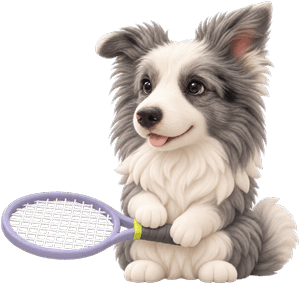
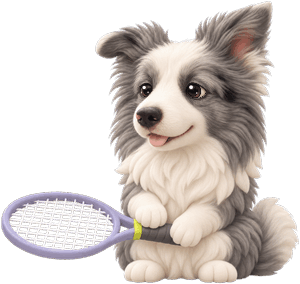
polish: 优化活动首帧秒出无跳动、调整 LULU 盯球眼神与收紧底部留白

Changed region(s): [[0.6, 0.2535, 0.72, 0.3662], [0.45, 0.2535, 0.51, 0.3662]]

diff --git a/pages/draw-view/draw-view.js b/pages/draw-view/draw-view.js
@@ -42,7 +42,7 @@ Page({
   data: {
     draw: null, meta: '', levelText: '', formatText: '', seedLabel: '', seedRows: [], error: '', myName: '', myId: '',
     cupTag: '', cupBox: null, canEditCup: false, cupKindBusy: false, isRot: false, rotRounds: [],
-    ready: false, signing: false, ended: false, endReason: '', canClose: false, canReopen: false, closeBusy: false, posterBtnText: '生成对阵图',
+    ready: false, btnReady: false, signupsKnown: false, signing: false, ended: false, endReason: '', canClose: false, canReopen: false, closeBusy: false, posterBtnText: '生成对阵图',
     isDouble: false, signups: [], signCount: '', signText: '', signNote: '', joined: false, isOwner: false, full: false, busy: false,
     partnerOpts: [], info: null, adminSheet: null, adminBusy: false, // adminSheet：管理员代报名的选人弹层（components/member-sheet）
     matches: [], tab: 'board', schedule: [], onlyMine: false, focus: '', progress: '', todo: 0, slotEdit: null,
@@ -67,9 +67,10 @@ Page({
   onPullDownRefresh() { require('../../utils/memo').invalidate(); // 下拉刷新：不用内存缓存
     this.load().then(() => wx.stopPullDownRefresh()); },
 
-  // 先用本机已有的数据画出来（活动列表的本机缓存 + 本机战绩），云端 drawDetail 读完再更正（2026-11-24 用户嫌打开慢）。
-  // 本机没有的（报名名单、退赛申请、积分结算）读完前不显示；报名 / 取消 / 生成对阵 / 删除这些按钮也等读完（ready）
-  //   报名中的活动：内存里 60 秒内读过的详情（db.peekDrawDetail）或本机记着的上次名单（db.cachedDrawSignups）先画出人数和名单（只是显示）
+  // 先用本机已有的数据画出来（活动列表的本机缓存 + 本机战绩），云端 drawDetail 读完再更正。
+  //   报名中的活动：内存里 60 秒内读过的详情（peekDrawDetail）、上次的名单（cachedDrawSignups）或我的报名缓存（cachedMySignups）
+  //   能确定报名状态时，第一帧同步画出报名 / 取消 / 截止报名 / 删除等按钮（btnReady: true），避免页面打开后按钮延迟蹦出与宽度跳动；
+  //   云端读完（ready: true）后再按最新结果更正，名单为空时仍在 ready 前不提示「还没有人报名」。
   preview() {
     let d = null, signups = null, me = null, peekCup = null;
     try {
@@ -82,14 +83,41 @@ Page({
     me = me || db.cachedProfile();
     try {
       const all = db.cachedMatches();
-      this.show(d, all, me, db.cachedOpenid() || (me && me._openid) || '', null);
-      if (d.status === 'signup' && Array.isArray(signups)) this.loadSignups(d, all, signups, { players: db.cachedPlayersFull() });
-      else if (d.status !== 'signup' && peekCup && require('../../utils/member').isAdminLocal() && C.drawCupOf(d)) this.applyCup(peekCup);
+      const myId = db.cachedOpenid() || (me && me._openid) || '';
+      let extra = null;
+      if (d.status === 'signup') {
+        const players = db.cachedPlayersFull();
+        if (Array.isArray(signups)) {
+          const mine = signups.find((s) => !!myId && s._openid === myId) || null;
+          extra = Object.assign(this.buildSignupPatch(d, signups, mine, players, false, all, myId), { btnReady: true, signupsKnown: true });
+        } else {
+          const mySu = db.cachedMySignups ? db.cachedMySignups() : null;
+          if (Array.isArray(mySu)) {
+            const joined = mySu.some((s) => s && s.drawId === this.id);
+            this.partnerPool = players.filter((p) => p.uid && p.uid !== myId);
+            extra = {
+              joined,
+              full: false,
+              partnerOpts: [NO_PARTNER].concat(this.partnerPool.map((p) => p.name)),
+              btnReady: true,
+            };
+          }
+        }
+      } else {
+        extra = { btnReady: true };
+      }
+      this.show(d, all, me, myId, null, null, extra);
+      if (d.status !== 'signup' && peekCup && require('../../utils/member').isAdminLocal() && C.drawCupOf(d)) this.applyCup(peekCup);
     } catch (e) { console.warn('[活动详情] 本机缓存画不出来，等云端', e); }
   },
 
   // 防乱序：onShow、下拉刷新、处理退赛后都会调 load，几次请求先后回来时只用最后一次的结果（旧的晚到也不画）
-  async load() {
+  load() {
+    const p = this.loadNow();
+    this.loadP = p;
+    return p;
+  },
+  async loadNow() {
     const seq = this.loadSeq = (this.loadSeq || 0) + 1;
     const stale = () => seq !== this.loadSeq || this.gone;
     try {
@@ -125,12 +153,12 @@ Page({
       if (stale()) return;
       console.error(e);
       // 只画过本机缓存、云端没读到：不留着缓存的内容（可能已被删除）
-      this.setData(this.loaded ? { error: '活动加载失败，可能已被删除' } : { error: '活动加载失败，可能已被删除', draw: null, ready: false });
+      this.setData(this.loaded ? { error: '活动加载失败，可能已被删除' } : { error: '活动加载失败，可能已被删除', draw: null, ready: false, btnReady: false, signupsKnown: false });
     }
   },
 
   // fresh：云端结果 { bundle, signups }；null 表示只是本机缓存的预览
-  async show(d, all, me, myId, fresh, stale) {
+  async show(d, all, me, myId, fresh, stale, previewExtra) {
     const signups = fresh ? fresh.signups : [];
     this.uidOf = ID.drawUids(d, signups); // 「我的比赛」按用户 ID 判断
     d._id = d._id || this.id;
@@ -169,13 +197,15 @@ Page({
     };
     if (signing) { top.canEditCup = cupOn; top.cupBox = null; this.cupSeq = (this.cupSeq || 0) + 1; } // 报名中：取消还在路上的结算查询
     else if (!cupOn) top.canEditCup = false;
-    this.setData(top);
-    if (!fresh) { // 预览：报名名单等云端；对阵和场次用本机战绩先画
+    if (!fresh) { // 预览：同一次 setData 合并已缓存的报名名单和按钮状态，首帧直接到位
+      if (previewExtra) Object.assign(top, previewExtra);
+      this.setData(top);
       if (!signing) this.renderSchedule(true);
       return;
     }
+    this.setData(top);
     if (signing) {
-      await this.loadSignups(d, all, fresh.bundle ? signups : null, fresh.players);
+      await this.loadSignups(d, all, fresh.bundle ? signups : null, fresh.players, { ready: true, btnReady: true, signupsKnown: true });
       if (stale && stale()) return;
       // 管理员：顺手预读成员列表（内存里 60 秒），点「＋ 添加报名」时选人弹层马上出来
       if (isAdmin && !this.membersAsked) { this.membersAsked = true; cloud.cached('listMembers').catch(() => {}); }
@@ -196,7 +226,7 @@ Page({
       }
     }
     if (stale && stale()) return;
-    if (!this.data.ready) this.setData({ ready: true });
+    if (!this.data.ready || !this.data.btnReady) this.setData({ ready: true, btnReady: true });
   },
 
   /* ---------- LULU 积分活动：管理员结算（全部场次结束后；云端 drawDetail / cupFromDraw / cupSave 再校验管理员和完赛） ---------- */
@@ -390,25 +420,11 @@ Page({
   },
 
   /* ---------- 报名 ---------- */
-  // preloaded：drawDetail 已经带回来的报名名单（没有就重新读，报名 / 取消后用）
-  // pl：{ players, shared }（load 已经读到的球员；shared = db.playersShared 的共享数组）。不传就自己读共享版
-  async loadSignups(d, matches, preloaded, pl) {
-    const seq = this.signupSeq = (this.signupSeq || 0) + 1;
-    const [list, mineDoc, got] = await Promise.all([
-      preloaded || db.fetchSignups(this.id), preloaded ? null : db.mySignup(this.id),
-      pl || db.playersShared().then((players) => ({ players, shared: true }), () => ({ players: db.cachedPlayersFull() })),
-    ]);
-    if (seq !== this.signupSeq || this.gone) return; // 后发的新刷新已经开始 / 页面已关：不让旧名单盖掉新的
-    const players = got.players || [];
+  buildSignupPatch(d, list, mine, players, shared, matches, myId) {
     this.signupRows = list;
-    const mine = preloaded ? list.find((s) => !!this.data.myId && s._openid === this.data.myId) : mineDoc;
-    // 排名、场数、胜率、等级都从有效比赛记录实时算；性别读个人资料。没有数据显示「暂无」
-    // 名次和排行榜一致：只在同意公开展示的人里排。共享版球员（只读，不复制）带上 db.profilesOf，和排行榜、球员主页命中
-    // 同一份统计缓存；本机缓存的复制版 db.profilesOf 认不出来，不传 profiles，授权直接看球员列表里的 shown
-    const stats = S.playerStats(matches || db.cachedMatches(), players, got.shared ? db.profilesOf(players) : undefined);
+    const stats = S.playerStats(matches || db.cachedMatches(), players, shared && db.profilesOf ? db.profilesOf(players) : undefined);
     const profOf = {};
     players.forEach((p) => { profOf[p.name] = p; });
-    // 报名名单按账号显示「当前」昵称：改名后报名照样有效，显示也跟着更新
     const byUid = {};
     players.forEach((p) => { if (p.uid) byUid[p.uid] = p; });
     const person = (snapName, uid) => {
@@ -418,8 +434,6 @@ Page({
         name, uid: uid || '', initial: initialOf(name), color: colorOf(name),
       }, S.display(stats, name, cur || profOf[name], uid));
     };
-    // 候补：名额（淘汰赛的签数 / 小组赛的报名上限）用完之后报名的，按报名先后排队，前面有人取消自动递补。
-    // 报名情况的文字（还差几人 / 已满 / 候补几人）和「会不会进候补」都按 E.signupStatus，和云端 signUp 同一套
     const st = E.signupStatus(d, list);
     const capP = st.cap, wait = st.wait;
     const signups = list.map((s, i) => {
@@ -428,24 +442,41 @@ Page({
       return Object.assign({ _id: s._id, no: i + 1, solo: !s.partner, waiting: !!wait[s._id], members }, members[0]);
     });
     const waitPeople = st.waiting;
-    // 按用户 ID 判断谁已经报名（自己报的 _openid，或被搭档带上的 partnerId）
     const takenId = {};
     let people = 0;
     list.forEach((s) => { people += s.partner ? 2 : 1; if (s._openid) takenId[s._openid] = 1; if (s.partnerId) takenId[s.partnerId] = 1; });
-    const myId = this.data.myId;
-    const isDouble = this.data.isDouble;
-    // 搭档只能选已设置资料的球员（有用户 ID），同名资料不能被选
     this.partnerPool = players.filter((p) => p.uid && p.uid !== myId && !takenId[p.uid]);
     const partnerOpts = [NO_PARTNER].concat(this.partnerPool.map((p) => p.name));
-    this.setData({
+    this.shareCounts = { people, cap: capP, wait: waitPeople };
+    return {
       signups, partnerOpts,
       joined: !!mine || (!!myId && !!takenId[myId]),
-      full: st.full, // 满了还能报，只是进候补
+      full: st.full,
       signText: st.text, signNote: st.note,
       myWaiting: !!mine && !!wait[mine._id] || signups.some((x) => x.waiting && x.members.some((p) => p.uid && p.uid === myId)),
       signCount: (capP ? `${people - waitPeople} / ${capP} 人` : `${people} 人`) + (waitPeople ? ` · 候补 ${waitPeople} 人` : ''),
-    });
-    this.shareCounts = { people, cap: capP, wait: waitPeople };
+    };
+  },
+
+  // preloaded：drawDetail 已经带回来的报名名单（没有就重新读，报名 / 取消后用）
+  // pl：{ players, shared }（load 已经读到的球员；shared = db.playersShared 的共享数组）。不传就自己读共享版
+  async loadSignups(d, matches, preloaded, pl, extra) {
+    const seq = this.signupSeq = (this.signupSeq || 0) + 1;
+    let list, mineDoc, got;
+    if (preloaded && pl) {
+      list = preloaded; mineDoc = null; got = pl;
+    } else {
+      [list, mineDoc, got] = await Promise.all([
+        preloaded || db.fetchSignups(this.id), preloaded ? null : db.mySignup(this.id),
+        pl || db.playersShared().then((players) => ({ players, shared: true }), () => ({ players: db.cachedPlayersFull() })),
+      ]);
+    }
+    if (seq !== this.signupSeq || this.gone) return; // 后发的新刷新已经开始 / 页面已关：不让旧名单盖掉新的
+    const myId = this.data.myId;
+    const mine = preloaded ? list.find((s) => !!myId && s._openid === myId) : mineDoc;
+    const patch = this.buildSignupPatch(d, list, mine, got.players || [], !!got.shared, matches, myId);
+    if (extra) Object.assign(patch, extra);
+    this.setData(patch);
     this.makeCover();
   },
 
@@ -453,6 +484,8 @@ Page({
   //   按本人报名同一套规则校验（组别、性别、重名、搭档），并留档。已在名单里的（含被带的搭档）不出现
   async openAdminSignup() {
     if (!this.data.canEdit || !this.data.signing || this.data.adminBusy) return;
+    if (!this.data.ready && this.loadP) { try { await this.loadP; } catch (e) {} }
+    if (!this.data.canEdit || !this.data.signing) return;
     this.setData({ adminBusy: true });
     try {
       const { active } = await cloud.cached('listMembers'); // 进页面时预读过；60 秒内的就直接用（报名照样由云端按规则校验）
@@ -560,8 +593,10 @@ Page({
     });
   },
 
-  startDraw() {
+  async startDraw() {
     if (!this.data.canEdit || !this.data.signing || (this.data.isRot && !this.data.canPublish)) return;
+    if (!this.data.ready && this.loadP) { try { await this.loadP; } catch (e) {} }
+    if (!this.data.canEdit || !this.data.signing) return;
     if (this.data.signups.length < 2) { wx.showToast({ title: '报名的还不够', icon: 'none' }); return; }
     // 四人轮换：要报满 4 位（候补的不算）才能生成
     if (this.data.isRot && this.data.signups.filter((s) => !s.waiting).length < E.ROTATION_SIZE) { wx.showToast({ title: '四人轮换双打要报满 4 位才能生成对阵', icon: 'none' }); return; }

diff --git a/utils/db.js b/utils/db.js
@@ -413,17 +413,30 @@ async function fetchSignups(drawId) {
   return list;
 }
 
-// 我报过名的活动（自己报的，或被搭档带上的）：活动页「我的活动」用
-// 云函数 mySignups 1 次调用；云函数还是旧版本（未知操作）时分开读
+// 我报过名的活动（自己报的，或被搭档带上的）：活动页「我的活动」和活动详情首帧预判报名按钮用
+// 云函数 mySignups 1 次调用；云函数还是旧版本（未知操作）时分开读；同步缓存一份到本机受保护存储（退出成员身份自动清掉）
+const MY_SIGNUPS_KEY = 'cache_my_signups';
 async function fetchMySignups() {
   const me = await myOpenid();
   return memo.get('mySignups:' + me, 'signups', async () => {
-    try { return (await require('./cloud').call('mySignups')).list || []; } catch (e) {
+    const started = generation;
+    let list;
+    try { list = (await require('./cloud').call('mySignups')).list || []; } catch (e) {
       if (!/未知操作/.test((e && e.message) || '')) throw e;
+      const [own, asPartner] = await Promise.all([fetchAll('signups', [], { _openid: me }), fetchAll('signups', [], { partnerId: me })]);
+      list = own.concat(asPartner);
     }
-    const [own, asPartner] = await Promise.all([fetchAll('signups', [], { _openid: me }), fetchAll('signups', [], { partnerId: me })]);
-    return own.concat(asPartner);
+    if (started === generation) cacheSetLater(MY_SIGNUPS_KEY, { uid: me, list });
+    return list;
   });
+}
+function cachedMySignups() {
+  const me = cachedOpenid();
+  if (!me) return null;
+  const hit = memo.peek('mySignups:' + me);
+  if (Array.isArray(hit)) return hit;
+  const c = cacheGet(MY_SIGNUPS_KEY, null);
+  return c && c.uid === me && Array.isArray(c.list) ? c.list : null;
 }
 
 async function mySignup(drawId) {
@@ -433,10 +446,13 @@ async function mySignup(drawId) {
 }
 // 报名经云函数 signUp：参赛名取本人当前资料，搭档只传用户 ID，由服务端校验（partner 为空表示还没有搭档，由发起人配对）
 async function signUp(drawId, partner) {
-  return require('./cloud').call('signUp', { drawId, partnerId: (partner && partner.uid) || '' });
+  const r = await require('./cloud').call('signUp', { drawId, partnerId: (partner && partner.uid) || '' });
+  try { wx.removeStorageSync(MY_SIGNUPS_KEY); } catch (e) {}
+  return r;
 }
 async function cancelSignup(drawId) {
   await require('./cloud').call('cancelSignup', { drawId });
+  try { wx.removeStorageSync(MY_SIGNUPS_KEY); } catch (e) {}
 }
 
 module.exports = {
@@ -445,5 +461,5 @@ module.exports = {
   fetchPlayersFull, cachedPlayersFull, cachedProfiles,
   getMyProfile, cachedProfile, cachedOpenid, saveMyProfile, setShown,
   fetchDraws, cachedDraws, getDraw, fetchDrawDetail, prefetchDrawDetail, peekDrawDetail, prefetchMatchState, fetchMatchState, cachedDrawSignups, forget, addDraw, generateDraw, updateDrawInfo, updateDrawSettings, removeDraw, restoreDraw, pinDraw, closeDraw, recentRemoved, dismissRemoved, withoutRemoved, setFixtureSlot,
-  fetchSignups, fetchMySignups, mySignup, signUp, cancelSignup,
+  fetchSignups, fetchMySignups, cachedMySignups, mySignup, signUp, cancelSignup,
 };

diff --git a/pages/draw/draw.js b/pages/draw/draw.js
@@ -79,6 +79,8 @@ Page({
   onLoad() {
     // 朋友圈单页模式：只显示固定介绍，不读缓存、不调云函数（见 utils/timeline.js）
     if (TL.isTimeline()) { this.timeline = true; this.setData({ timeline: true, loading: false }); return; }
+    this.myId = db.cachedOpenid ? db.cachedOpenid() : '';
+    this.signups = (db.cachedMySignups && db.cachedMySignups()) || [];
     this.draws = db.cachedDraws(); this.matches = db.cachedMatches(); this.render();
     // 「创建活动」按钮先按本机记得的身份显示（24 小时内确认过的管理员），不等云端；load 里拿到身份后再更正
     const M = require('../../utils/member');
